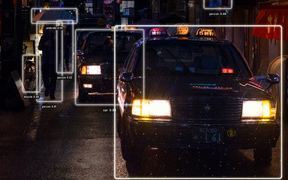
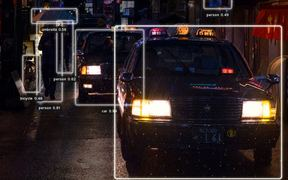
docs: document the new presets and re-render preset imagery
README gets a table of the ten purpose-built presets. docs/presets.py
renders the site's preset images and thumbnails (with synthetic trails,
like the Studio) and replaces the manual snippets in site/README.md. All
22 renders, thumbnails and gallery.jpg are regenerated. The site's preset
explorer lists all 22, and on desktop the picker scrolls within the
board's height.

diff --git a/site/index.html b/site/index.html
@@ -5,11 +5,11 @@
     <meta name="viewport" content="width=device-width, initial-scale=1.0" />
     <meta name="color-scheme" content="light" />
     <meta name="theme-color" content="#faf7f0" />
-    <meta name="description" content="visionstyle — beautiful, fully configurable bounding boxes for object detection. One typed Style, twelve presets, a live Studio, rendered with one call." />
+    <meta name="description" content="visionstyle — beautiful, fully configurable bounding boxes for object detection. One typed Style, twenty-two presets, a live Studio, rendered with one call." />
     <meta property="og:type" content="website" />
     <meta property="og:site_name" content="visionstyle" />
     <meta property="og:title" content="visionstyle — boxes that look authored" />
-    <meta property="og:description" content="Beautiful, fully configurable bounding boxes for object detection. One Style, twelve presets, a live Studio, one call." />
+    <meta property="og:description" content="Beautiful, fully configurable bounding boxes for object detection. One Style, twenty-two presets, a live Studio, one call." />
     <meta property="og:url" content="https://baselhusam.github.io/visionstyle/" />
     <meta property="og:image" content="https://baselhusam.github.io/visionstyle/images/og-banner.png" />
     <meta property="og:image:width" content="2172" />
@@ -189,7 +189,7 @@
         <div class="shell">
           <header class="section-heading reveal-on-scroll">
             <p class="eyebrow">02 / Presets</p>
-            <h2>Twelve starting points. Every one is <em>YAML.</em></h2>
+            <h2>Twenty-two starting points. Every one is <em>YAML.</em></h2>
             <p class="section-lead">Pick a mood, then make it yours. Each preset is a plain file you can copy, edit and load by name — <code>vs.Style.preset("hud")</code>.</p>
           </header>
 
@@ -207,12 +207,22 @@
               <button role="tab" aria-selected="false" aria-controls="preset-window" tabindex="-1" data-preset="rounded"><img src="images/presets/thumbs/rounded.jpg" alt="" width="288" height="180" loading="lazy" /><span class="preset-text"><b>rounded</b><span>Rounded corners, gradient tint, pill label</span></span></button>
               <button role="tab" aria-selected="false" aria-controls="preset-window" tabindex="-1" data-preset="spotlight"><img src="images/presets/thumbs/spotlight.jpg" alt="" width="288" height="180" loading="lazy" /><span class="preset-text"><b>spotlight</b><span>Dims everything outside the detections</span></span></button>
               <button role="tab" aria-selected="false" aria-controls="preset-window" tabindex="-1" data-preset="tracking"><img src="images/presets/thumbs/tracking.jpg" alt="" width="288" height="180" loading="lazy" /><span class="preset-text"><b>tracking</b><span>Bold per-track trails, id-first labels</span></span></button>
+              <button role="tab" aria-selected="false" aria-controls="preset-window" tabindex="-1" data-preset="target"><img src="images/presets/thumbs/target.jpg" alt="" width="288" height="180" loading="lazy" /><span class="preset-text"><b>target</b><span>Red lock-on brackets, pulse, track trail, dimmed frame</span></span></button>
+              <button role="tab" aria-selected="false" aria-controls="preset-window" tabindex="-1" data-preset="redact"><img src="images/presets/thumbs/redact.jpg" alt="" width="288" height="180" loading="lazy" /><span class="preset-text"><b>redact</b><span>Blurs inside each box for anonymizing</span></span></button>
+              <button role="tab" aria-selected="false" aria-controls="preset-window" tabindex="-1" data-preset="review"><img src="images/presets/thumbs/review.jpg" alt="" width="288" height="180" loading="lazy" /><span class="preset-text"><b>review</b><span>Class id, name and score for label audits</span></span></button>
+              <button role="tab" aria-selected="false" aria-controls="preset-window" tabindex="-1" data-preset="safety"><img src="images/presets/thumbs/safety.jpg" alt="" width="288" height="180" loading="lazy" /><span class="preset-text"><b>safety</b><span>Amber/black hazard-tape outline, alert tag</span></span></button>
+              <button role="tab" aria-selected="false" aria-controls="preset-window" tabindex="-1" data-preset="broadcast"><img src="images/presets/thumbs/broadcast.jpg" alt="" width="288" height="180" loading="lazy" /><span class="preset-text"><b>broadcast</b><span>TV graphics: player paths and number bubbles</span></span></button>
+              <button role="tab" aria-selected="false" aria-controls="preset-window" tabindex="-1" data-preset="cctv"><img src="images/presets/thumbs/cctv.jpg" alt="" width="288" height="180" loading="lazy" /><span class="preset-text"><b>cctv</b><span>Grayscale grain, phosphor-green ID tags</span></span></button>
+              <button role="tab" aria-selected="false" aria-controls="preset-window" tabindex="-1" data-preset="traffic"><img src="images/presets/thumbs/traffic.jpg" alt="" width="288" height="180" loading="lazy" /><span class="preset-text"><b>traffic</b><span>Vehicles amber, people cyan, bikes lime</span></span></button>
+              <button role="tab" aria-selected="false" aria-controls="preset-window" tabindex="-1" data-preset="documentary"><img src="images/presets/thumbs/documentary.jpg" alt="" width="288" height="180" loading="lazy" /><span class="preset-text"><b>documentary</b><span>Cream brackets, underlined names, warm grade</span></span></button>
+              <button role="tab" aria-selected="false" aria-controls="preset-window" tabindex="-1" data-preset="blueprint"><img src="images/presets/thumbs/blueprint.jpg" alt="" width="288" height="180" loading="lazy" /><span class="preset-text"><b>blueprint</b><span>Dashed hairlines, center marks, cool grade</span></span></button>
+              <button role="tab" aria-selected="false" aria-controls="preset-window" tabindex="-1" data-preset="high-contrast"><img src="images/presets/thumbs/high-contrast.jpg" alt="" width="288" height="180" loading="lazy" /><span class="preset-text"><b>high-contrast</b><span>Thick yellow outlines, large black-on-yellow tags</span></span></button>
             </div>
 
             <figure class="board board-night preset-board">
               <div class="board-bar">
                 <span class="board-status"><i class="live"></i>preset / <b data-preset-name>cinematic</b></span>
-                <span class="board-meta">street.jpg · <b data-preset-index>01</b> / 12</span>
+                <span class="board-meta">street.jpg · <b data-preset-index>01</b> / 22</span>
                 <button class="autoplay" type="button" data-autoplay aria-pressed="true"><i></i><span>auto-play</span></button>
               </div>
               <div class="board-canvas preset-window" id="preset-window" role="tabpanel" aria-live="polite" data-preset-window>
@@ -228,6 +238,16 @@
                 <img class="preset-frame" data-src="images/presets/rounded.jpg" alt="" width="1400" height="907" data-preset-frame="rounded" />
                 <img class="preset-frame" data-src="images/presets/spotlight.jpg" alt="" width="1400" height="907" data-preset-frame="spotlight" />
                 <img class="preset-frame" data-src="images/presets/tracking.jpg" alt="" width="1400" height="907" data-preset-frame="tracking" />
+                <img class="preset-frame" data-src="images/presets/target.jpg" alt="" width="1400" height="907" data-preset-frame="target" />
+                <img class="preset-frame" data-src="images/presets/redact.jpg" alt="" width="1400" height="907" data-preset-frame="redact" />
+                <img class="preset-frame" data-src="images/presets/review.jpg" alt="" width="1400" height="907" data-preset-frame="review" />
+                <img class="preset-frame" data-src="images/presets/safety.jpg" alt="" width="1400" height="907" data-preset-frame="safety" />
+                <img class="preset-frame" data-src="images/presets/broadcast.jpg" alt="" width="1400" height="907" data-preset-frame="broadcast" />
+                <img class="preset-frame" data-src="images/presets/cctv.jpg" alt="" width="1400" height="907" data-preset-frame="cctv" />
+                <img class="preset-frame" data-src="images/presets/traffic.jpg" alt="" width="1400" height="907" data-preset-frame="traffic" />
+                <img class="preset-frame" data-src="images/presets/documentary.jpg" alt="" width="1400" height="907" data-preset-frame="documentary" />
+                <img class="preset-frame" data-src="images/presets/blueprint.jpg" alt="" width="1400" height="907" data-preset-frame="blueprint" />
+                <img class="preset-frame" data-src="images/presets/high-contrast.jpg" alt="" width="1400" height="907" data-preset-frame="high-contrast" />
                 <i class="corner tl" aria-hidden="true"></i><i class="corner tr" aria-hidden="true"></i><i class="corner bl" aria-hidden="true"></i><i class="corner br" aria-hidden="true"></i>
                 <button class="step-btn prev" type="button" data-step="-1" aria-label="Previous preset"><svg viewBox="0 0 16 16" aria-hidden="true"><path d="M10 3 5 8l5 5" /></svg></button>
                 <button class="step-btn next" type="button" data-step="1" aria-label="Next preset"><svg viewBox="0 0 16 16" aria-hidden="true"><path d="m6 3 5 5-5 5" /></svg></button>

diff --git a/site/styles.css b/site/styles.css
@@ -270,8 +270,9 @@ h3 { font: 640 19px/1.15 var(--sans); letter-spacing: -.03em; }
 /* ---------- Presets ---------- */
 .presets { background: var(--paper-2); }
 .presets .section-lead code { background: var(--paper); }
-.preset-explorer { display: grid; grid-template-columns: minmax(0, .9fr) minmax(0, 1.1fr); gap: 28px; align-items: start; }
-.preset-list { display: grid; grid-template-columns: 1fr 1fr; gap: 8px; }
+.preset-explorer { display: grid; grid-template-columns: minmax(0, .9fr) minmax(0, 1.1fr); gap: 28px; align-items: stretch; }
+/* the board sets the row height (contain: size keeps the list out of it); the picker scrolls inside it */
+.preset-list { display: grid; grid-template-columns: 1fr 1fr; grid-auto-rows: min-content; gap: 8px; contain: size; overflow-y: auto; overscroll-behavior: contain; padding: 2px 8px 8px 2px; scrollbar-width: thin; scrollbar-color: var(--line) transparent; }
 .preset-list button { position: relative; display: grid; grid-template-columns: 64px minmax(0, 1fr); align-items: center; gap: 12px; min-height: 64px; padding: 8px 12px 8px 8px; border: 0; border-radius: 14px; background: var(--panel); box-shadow: 0 0 0 1px var(--line); color: var(--ink); text-align: left; transition: transform var(--fast), box-shadow var(--fast), background var(--fast); }
 .preset-list img { width: 64px; height: 40px; border-radius: 8px; object-fit: cover; background: var(--night); box-shadow: 0 0 0 1px rgb(17 17 17 / 12%); filter: saturate(.85); transition: filter var(--fast), box-shadow var(--fast); }
 .preset-text { display: grid; gap: 2px; min-width: 0; }
@@ -281,7 +282,7 @@ h3 { font: 640 19px/1.15 var(--sans); letter-spacing: -.03em; }
 .preset-list button:hover img { filter: none; }
 .preset-list button.active { box-shadow: 0 0 0 1.5px var(--ink), 4px 4px 0 var(--yellow); }
 .preset-list button.active img { filter: none; box-shadow: 0 0 0 2px var(--red); }
-.preset-board { box-shadow: 0 0 0 1px var(--night-line), 12px 13px 0 var(--yellow); }
+.preset-board { align-self: start; box-shadow: 0 0 0 1px var(--night-line), 12px 13px 0 var(--yellow); }
 .preset-window { aspect-ratio: 1400 / 907; overflow: hidden; touch-action: pan-y; }
 .preset-frame { position: absolute; inset: 0; width: 100%; height: 100%; object-fit: cover; opacity: 0; transition: opacity 360ms ease-out; }
 .preset-frame.is-on { opacity: 1; }
@@ -453,7 +454,7 @@ h3 { font: 640 19px/1.15 var(--sans); letter-spacing: -.03em; }
   .api-panel, .install-head { position: static; }
   .api-panel .code { min-height: 0; }
   /* presets: the board leads, the picker becomes a swipeable film strip */
-  .preset-list { order: 2; display: flex; gap: 8px; margin: 0 -24px; padding: 4px 24px 12px; overflow-x: auto; scroll-snap-type: x proximity; scroll-padding-inline: 24px; scrollbar-width: none; }
+  .preset-list { order: 2; display: flex; gap: 8px; contain: none; margin: 0 -24px; padding: 4px 24px 12px; overflow-x: auto; overflow-y: hidden; scroll-snap-type: x proximity; scroll-padding-inline: 24px; scrollbar-width: none; }
   .preset-list::-webkit-scrollbar { display: none; }
   .preset-list button { flex: none; grid-template-columns: 1fr; gap: 8px; width: 132px; min-height: 0; padding: 6px 6px 10px; scroll-snap-align: start; }
   .preset-list img { width: 100%; height: auto; aspect-ratio: 16 / 10; }

diff --git a/site/script.js b/site/script.js
@@ -174,16 +174,25 @@
     let autoplay = !reducedMotion;
     let inView = false;
 
-    // frames carry data-src so the twelve renders are fetched only as they are needed
+    // frames carry data-src so the preset renders are fetched only as they are needed
     const load = (img) => {
       if (img && img.dataset.src) { img.src = img.dataset.src; delete img.dataset.src; }
     };
 
     // keep the active thumbnail visible in the horizontal strip without scrolling the page
+    // keep the current preset centred in the picker: a column that scrolls on desktop, a film strip below 980 px
     const revealTab = (tab) => {
-      if (!list || list.scrollWidth <= list.clientWidth + 1) return;
-      const left = tab.offsetLeft - (list.clientWidth - tab.offsetWidth) / 2;
-      list.scrollTo({ left, behavior: reducedMotion ? 'auto' : 'smooth' });
+      if (!list) return;
+      const x = list.scrollWidth > list.clientWidth + 1;
+      const y = list.scrollHeight > list.clientHeight + 1;
+      if (!x && !y) return;
+      const box = list.getBoundingClientRect();
+      const r = tab.getBoundingClientRect();
+      list.scrollTo({
+        left: x ? list.scrollLeft + r.left - box.left - (list.clientWidth - r.width) / 2 : list.scrollLeft,
+        top: y ? list.scrollTop + r.top - box.top - (list.clientHeight - r.height) / 2 : list.scrollTop,
+        behavior: reducedMotion ? 'auto' : 'smooth',
+      });
     };
 
     const restartProgress = () => {

diff --git a/docs/presets.py b/docs/presets.py
@@ -1,0 +1,51 @@
+"""Render docs/images/presets/<name>.jpg and thumbs/<name>.jpg for every built-in preset.
+
+These feed the site's preset explorer. Each render is the bundled street.jpg (Osaka taxi alley)
+with its shipped detections. Like the Studio preview and ``visionstyle gallery``, trails use
+synthetic trajectories because the sample is a still image.
+
+    uv run python docs/presets.py [name ...]
+"""
+
+from __future__ import annotations
+
+import json
+import sys
+from pathlib import Path
+
+import cv2
+from PIL import Image
+
+import visionstyle as vs
+from visionstyle.style.presets import list_presets
+
+ROOT = Path(__file__).resolve().parent.parent
+SAMPLES = ROOT / "src" / "visionstyle" / "assets" / "samples"
+OUT = ROOT / "docs" / "images" / "presets"
+
+WIDTH = 1400  # full renders, JPEG q80
+THUMB = (288, 180)
+THUMB_CROP = (360, 330, 1360, 955)  # people, umbrellas and taxi, in 1600 px source coordinates
+
+
+def main(names: list[str]) -> None:
+    image = cv2.imread(str(SAMPLES / "street.jpg"))
+    raw = json.loads((SAMPLES / "street.detections.json").read_text())["detections"]
+    dets = vs.Detections.from_dicts(raw)
+    builtin = [p.name for p in list_presets() if p.origin == "builtin"]
+    (OUT / "thumbs").mkdir(parents=True, exist_ok=True)
+    for name in names or builtin:
+        out = vs.Annotator(vs.Style.preset(name)).annotate(image, dets, synthetic_trails=True)
+        im = Image.fromarray(cv2.cvtColor(out, cv2.COLOR_BGR2RGB))
+        k = im.width / 1600
+        thumb = im.crop(tuple(round(v * k) for v in THUMB_CROP))
+        thumb.resize(THUMB, Image.Resampling.LANCZOS).save(
+            OUT / "thumbs" / f"{name}.jpg", quality=78, optimize=True, progressive=True
+        )
+        full = im.resize((WIDTH, round(im.height * WIDTH / im.width)), Image.Resampling.LANCZOS)
+        full.save(OUT / f"{name}.jpg", quality=80, optimize=True, progressive=True)
+        print(name)
+
+
+if __name__ == "__main__":
+    main(sys.argv[1:])

diff --git a/site/README.md b/site/README.md
@@ -15,7 +15,7 @@ The site is an application of the **Chroma Press** identity documented in [`docs
 ## Interactions (`script.js`)
 
 - **Hero board** — a before / after slider over the untouched `night.jpg` (rainy Manhattan) and its real `cinematic` / `neon` renders. Drag anywhere on the frame with a mouse, drag horizontally on touch (vertical swipes still scroll the page), or focus it and use the arrow keys. On load the style wipes in over the raw frame and settles at the midpoint.
-- **Preset explorer** — crossfades between `docs/images/presets/<name>.jpg`: one genuine render per preset, produced with `visionstyle render` on the bundled `street.jpg` (Osaka taxi alley) and its shipped detections. The picker shows a thumbnail per preset (`docs/images/presets/thumbs/`); below 980 px it becomes a swipeable film strip. Frames are fetched on demand (current + next). It auto-advances while on screen until the visitor interacts, pauses on hover / when the tab is hidden, and is navigable with the arrows on the frame, a swipe, or the keyboard (arrows, Home, End).
+- **Preset explorer** — crossfades between `docs/images/presets/<name>.jpg`: one genuine render per preset, produced by `docs/presets.py` on the bundled `street.jpg` (Osaka taxi alley) and its shipped detections. The picker shows a thumbnail per preset (`docs/images/presets/thumbs/`) in a column that scrolls inside the board's height; below 980 px it becomes a swipeable film strip. Frames are fetched on demand (current + next). It auto-advances while on screen until the visitor interacts, pauses on hover / when the tab is hidden, and is navigable with the arrows on the frame, a swipe, or the keyboard (arrows, Home, End).
 - **Navigation** — scroll-spy pill nav on desktop, a section sheet behind the menu button below 980 px (closes on Escape, outside tap or navigation), and a reading-progress colour rail under the top bar.
 - **Code** — Python / YAML tabs on the Configure example, install tabs, copy buttons (the hero command copies on click) with an `aria-live` confirmation, and a lightbox for the Studio screenshot.
 - Everything degrades gracefully with `prefers-reduced-motion`.
@@ -24,21 +24,10 @@ The site is an application of the **Chroma Press** identity documented in [`docs
 
 - Edit the page and its interactions in this folder. Keep asset URLs relative (`images/presets/neon.jpg`) so the site works at the project URL and in a local static server.
 - Product imagery lives in `docs/images/`, logos in `assets/brand/chroma-press/`, fonts in `src/visionstyle/assets/fonts/`. The workflow copies exactly the files the site needs.
-- To refresh the preset renders after a preset changes, re-run for each name and re-encode at 1400 px wide (JPEG q80):
+- To refresh the preset renders and picker thumbnails after adding or changing a preset, run the script below. It renders every built-in preset (or just the names you pass) on `street.jpg` with its shipped detections and synthetic trails, like the Studio preview, and writes 1400 px renders plus 288 × 180 thumbnails. A new preset also needs its tab and frame added to the explorer in `index.html`, and the counter's total updated.
 
   ```bash
-  uv run visionstyle render src/visionstyle/assets/samples/street.jpg -s neon -d src/visionstyle/assets/samples/street.detections.json -o /tmp/neon.png
-  ```
-
-- The picker thumbnails are 288 × 180 crops of those renders (the people, umbrellas and taxi). Regenerate them after re-rendering the presets:
-
-  ```bash
-  uv run --with pillow python -c "
-  from PIL import Image; import glob, os
-  for p in glob.glob('docs/images/presets/*.jpg'):
-      im = Image.open(p); s = im.width / 1600
-      im.crop(tuple(round(v * s) for v in (360, 330, 1360, 955))).resize((288, 180), Image.LANCZOS).save(
-          'docs/images/presets/thumbs/' + os.path.basename(p), quality=78, optimize=True, progressive=True)"
+  uv run python docs/presets.py
   ```
 
 - `docs/images/studio.jpg` is a 1.5× screenshot (2400 × 1500) of the Studio at 1600 × 1000: the `city-walkthrough.mp4` sample at frame 91 with the cinematic preset and the Design library open. Still images get synthetic preview trails in the Studio, so the video sample shows real tracks instead.

diff --git a/README.md b/README.md
@@ -74,7 +74,7 @@ Python 3.10 – 3.13.
 - **One object describes the look.** A `Style` covers boxes, strokes, fills, line patterns,
   labels, effects and trails. Every option is a typed, validated attribute, and the whole thing
   round-trips to YAML.
-- **Twelve presets to start from.** Use one by name, or copy its YAML and make it yours.
+- **Twenty-two presets to start from.** Use one by name, or copy its YAML and make it yours.
 - **Looks the same at any resolution.** Sizes are in reference pixels and scale with the frame, and
   each object's outline and label scale with its size, so distant objects stay light.
 - **Built for video.** Keep one `Annotator` per stream and you get tracking trails, marching
@@ -93,8 +93,10 @@ if you want to borrow it.
 
 ### Presets
 
-Twelve ready-made looks to start from. Each one is a plain YAML file you can copy and edit
-([see all twelve on the same scene](https://raw.githubusercontent.com/baselhusam/visionstyle/main/docs/images/gallery.jpg)).
+Twenty-two ready-made presets to start from. Each one is a plain YAML file you can copy and edit
+([see all of them on the same scene](https://raw.githubusercontent.com/baselhusam/visionstyle/main/docs/images/gallery.jpg)).
+
+Twelve general-purpose looks:
 
 | Preset | Look | Preset | Look |
 |---|---|---|---|
@@ -104,6 +106,24 @@ Twelve ready-made looks to start from. Each one is a plain YAML file you can cop
 | `rounded` | Rounded corners, gradient tint, pill label | `tracking` | Bold per-track trails, id-first labels |
 | `dashed` | Dashed perimeter with marching ants | `spotlight` | Dims everything outside the detections |
 | `glass` | Frosted-glass fill and label | `confidence` | Stroke and tag color follow the confidence score |
+
+Ten built for a job, a field or an audience:
+
+| Preset | For | Look |
+|---|---|---|
+| `target` | Following one subject | Red lock-on brackets that pulse, center cross, track trail, dimmed frame |
+| `redact` | Anonymizing people, faces, plates | Blurs the inside of each box and marks it `REDACTED` |
+| `review` | Auditing labels and model output | Class id, name and score on every box, uniform sizes, tinted fill |
+| `safety` | PPE, intrusion and restricted-zone alerts | Amber/black hazard-tape outline, hatch fill, loud tag |
+| `broadcast` | Sports and TV graphics | No boxes: a glowing path at each player's feet and a number bubble |
+| `cctv` | Security and surveillance | Grayscale grainy frame, phosphor-green boxes and ID tags |
+| `traffic` | Traffic and smart-city monitoring | Vehicles amber, people cyan, two-wheelers lime |
+| `documentary` | Wildlife, nature, editorial video | Thin cream brackets, underlined names, warm film grade |
+| `blueprint` | Robotics and technical write-ups | Cool desaturated frame, fine dashed boxes, center marks, `[class id]` tags |
+| `high-contrast` | Projectors, outdoor screens, low vision | Thick yellow outlines with a dark halo, large black-on-yellow tags |
+
+`target` draws every detection it's given, so pass only the one you're following
+(for example `dets.subset(dets.track_id == 3)`), or hide the others in the Studio's Objects tab.
 
 ```bash
 visionstyle presets list

diff --git a/CHANGELOG.md b/CHANGELOG.md
@@ -7,6 +7,16 @@
   `ultralytics>=8.4`, the first release that ships YOLO26.
 - Bundled sample detections (`night`, `street`, `city-walkthrough`) regenerated with YOLO26n;
   README, site and showcase renders and the Studio screenshot refreshed to match.
+- Ten new built-in presets for specific jobs, fields and audiences: `target` (red lock-on for
+  following one subject), `redact` (blurs each box for anonymizing), `review` (label-audit look),
+  `safety` (hazard-tape alerts), `broadcast` (sports-TV player paths and numbers), `cctv`,
+  `traffic`, `documentary`, `blueprint` and `high-contrast`.
+- Tags on built-in presets now stay a constant, readable size: every built-in scales only the box
+  with object size (`object_scale.apply_to: box`). Before, tags on distant objects shrank to about
+  7 px on a 1600 px frame. Your own saved presets are unchanged.
+- Studio: glyphs for the new presets, and built-in names like `cctv` display as "CCTV".
+- `docs/presets.py` renders the site's preset images and thumbnails; the site's preset picker
+  scrolls within the board on desktop.
 
 ## 0.1.0 — 2026-09-24
 
